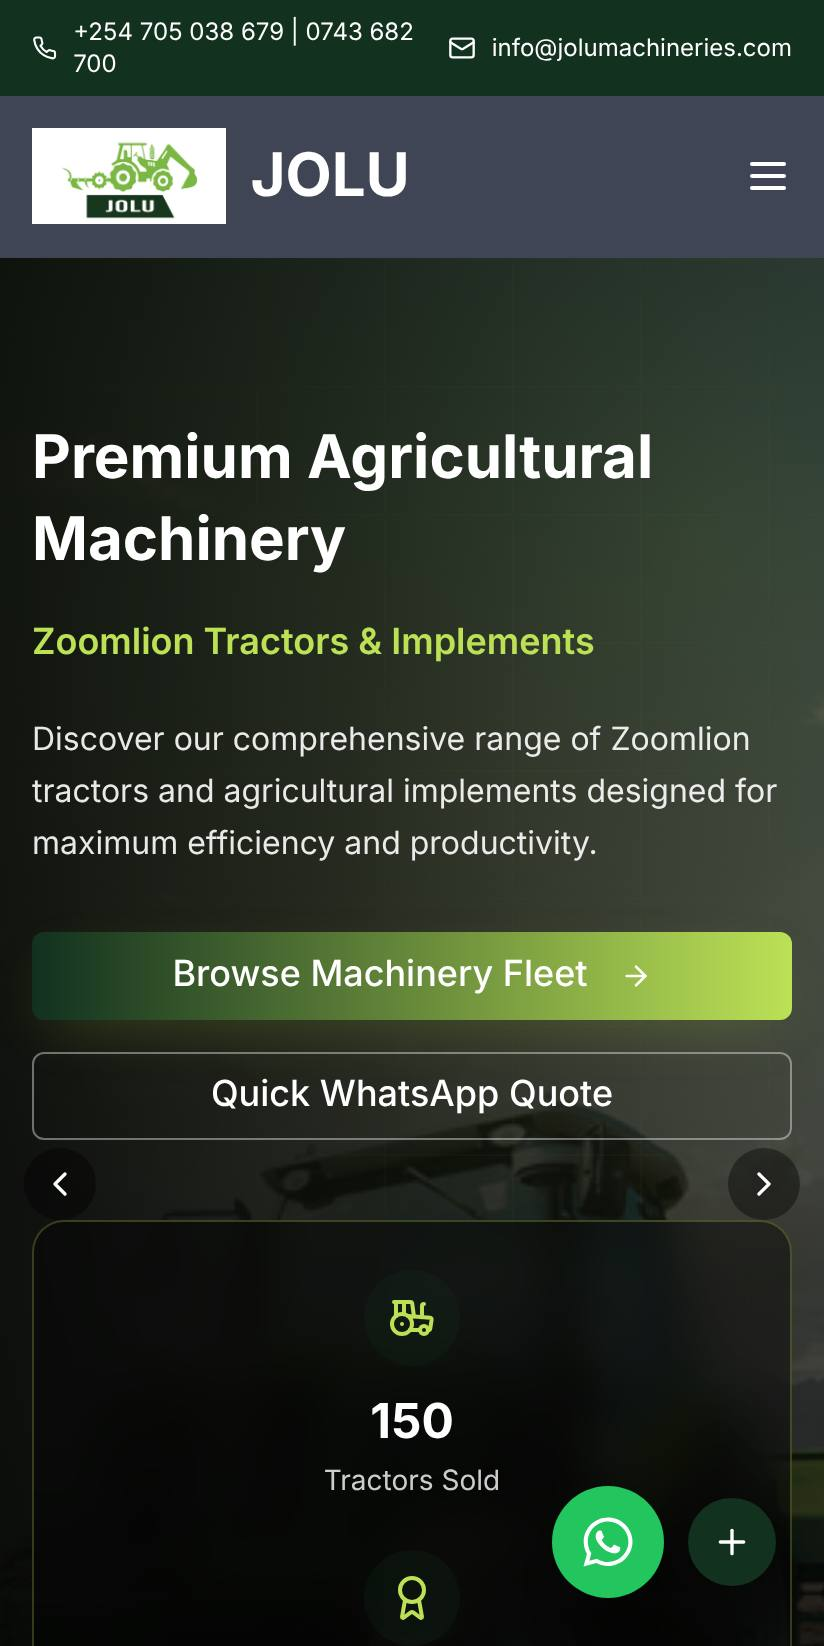
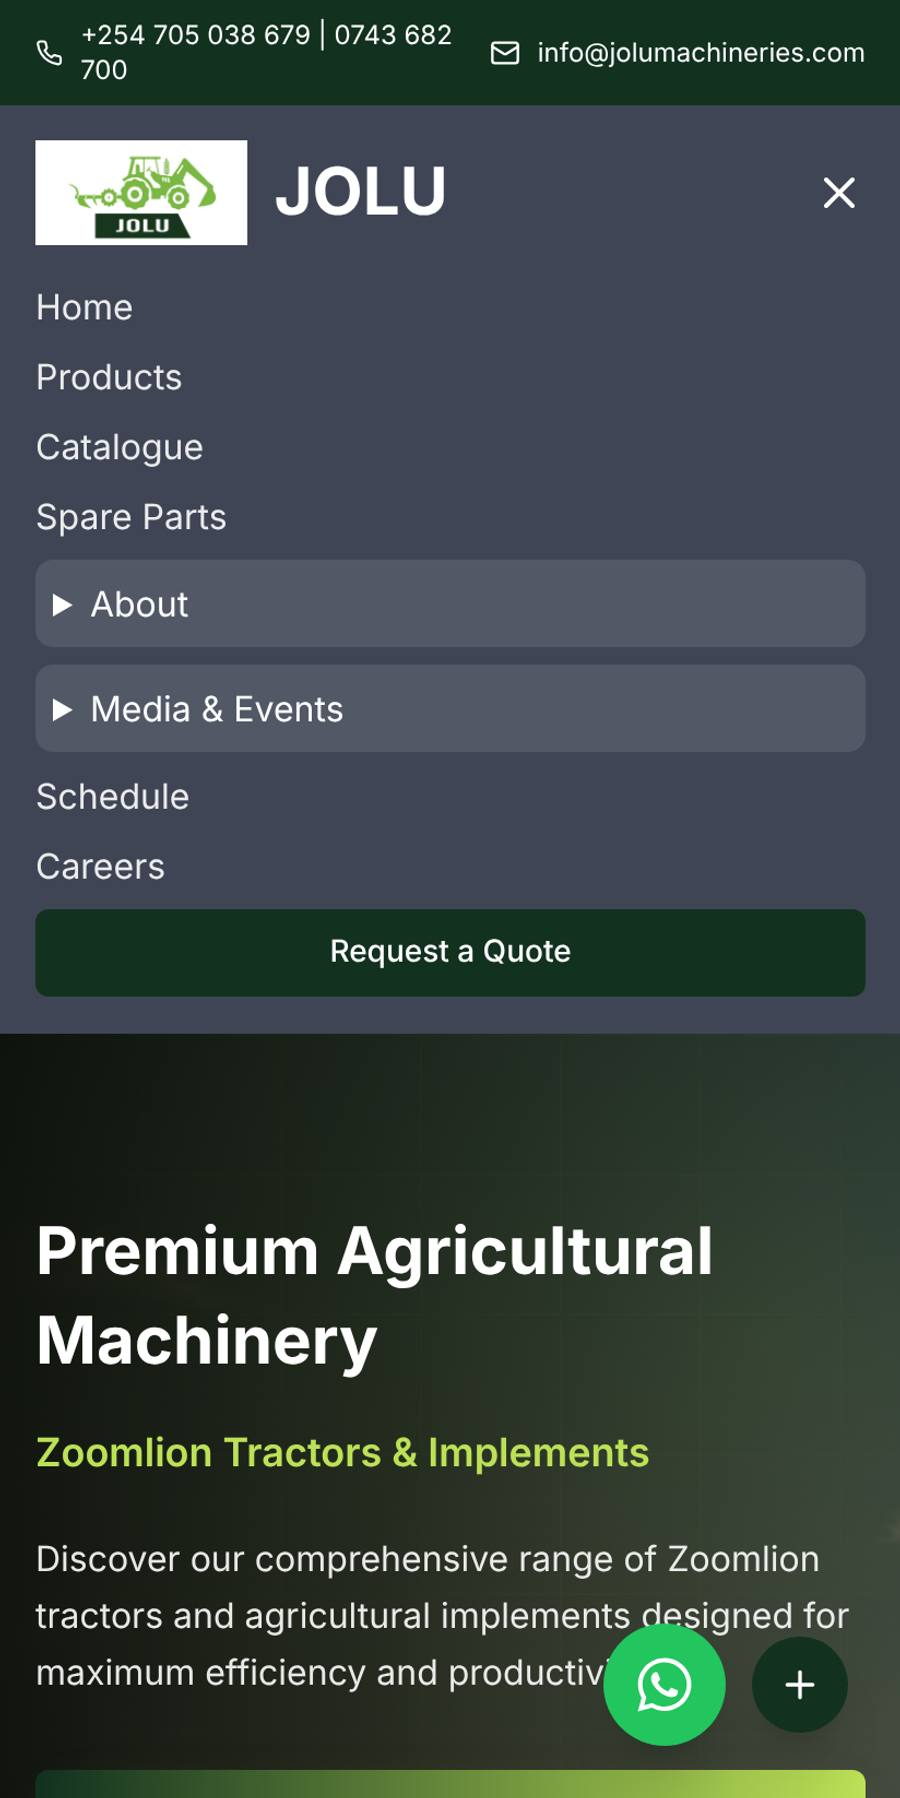
fix(release-gate): missing /_img/* returns 404 not SPA HTML; contain image generator output; document package manager
- vercel.json: SPA rewrite source is now /((?!_img/).*) so a missing generated image
  is a 404 instead of index.html (200) under the immutable /_img/ cache header (R-01).
- optimize-images.mjs: refuse unsafe output directories (roots, project root/parents, source
  trees, cache overlap, symlink escapes) before touching anything; prune only regular files
  named <slug>-<w>.<16hex>.webp (R-03). Confirmed on a disposable project that the old script
  deleted .webp originals when IMG_OUT_DIR pointed at a source tree.
- tests: generator-safety (10) and vercel-routing (5); all 55 tests pass.
- docs: release-gate notes (npm is the authoritative package manager; main auto-deploys
  to production), corrected mobile-navigation screenshot, owner checklist.

Claude-Session: https://claude.ai/code/session_019DqBUbEdKt8LQVsgZkmgx2

diff --git a/docs/m2-integration/RELEASE-GATE.md b/docs/m2-integration/RELEASE-GATE.md
@@ -1,0 +1,35 @@
+# M2-R release-gate notes (PR #12)
+
+## Package manager authority (R-02)
+- npm is authoritative: README says `npm i`; `client/package-lock.json` (v3) pins `sharp@0.35.5` exactly and is
+  consistent with `client/package.json`; a clean `npm ci` from only those two files installs it.
+- On Vercel, lockfile detection checks `package-lock.json` before `bun.lockb` (Vercel build-utils priority: yarn > pnpm > npm > bun),
+  so `client/bun.lockb` (stale, no sharp, untouched since before M2) is not used while `package-lock.json` exists.
+  Not deleted: lockfile removal is out of scope. Confirm in the preview/production install log ("Detected package-lock.json"/`npm install`).
+- Use `npm ci` / `npm install` in `client/`. Do not run `bun install` for this project.
+
+## Missing generated images (R-01)
+Static files take precedence over rewrites. Previously a missing `/_img/*` URL matched the `/(.*)` rewrite and returned
+`index.html` with 200 under the immutable `/_img/` header. The rewrite source is now `/((?!_img/).*)`, so missing `/_img/*`
+paths match no rewrite and return Vercel's 404, while every other path (SPA routes, `/products/<slug>`, unknown routes) still gets `index.html`.
+Matching was verified with `path-to-regexp@6`; behaviour on a live deployment is still to be confirmed (see D-03).
+
+## Generator cleanup safety (R-03)
+`scripts/optimize-images.mjs` now refuses (before creating or deleting anything) an output directory that is a filesystem root,
+the project root or a parent of it, a source image tree or anything inside/containing one, or overlaps the cache directory, and
+a manifest path inside a source tree or the output directory. Paths are symlink-resolved first. Pruning is restricted to regular
+files named `<slug>-<w>.<16 hex>.webp`; symlinks, directories and other files are never touched.
+
+## Production deployment relationship (R-05)
+GitHub deployment records show every push to `main` produced a Vercel **Production** deployment by `vercel[bot]` within about 1-2 minutes
+(e.g. merge commit 6244d87), and PR branches produce **Preview** deployments. No GitHub Actions or branch protection exist.
+**Merging PR #12 into main should therefore be treated as a production deployment.** Not verifiable from here: Vercel project settings,
+manual-approval/"Instant Rollback" availability, attached domains.
+
+## Owner visual acceptance checklist (not yet approved)
+Screenshots in `docs/m2-integration/screenshots/` (desktop = `-desktop`, mobile = `-mobile`):
+1. `home-hero-*`: hero readable; the two low-resolution hero photos are a known pre-existing limitation.
+2. `catalogue-top-*`, `catalogue-tractors|harvesters|implements-*`: 18 products, three groups, header/footer present.
+3. `product-detail-*`: product image detail acceptable.
+4. `gallery-*`, `news-*`, `nakuru-event-*`: images sharp, layout unchanged.
+5. `nav-desktop.png`, `nav-mobile.jpg` (menu open): "Catalogue" item present, other labels unchanged.
